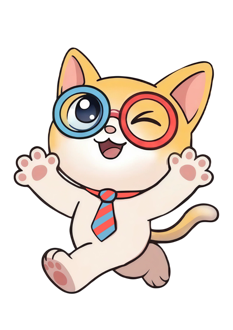
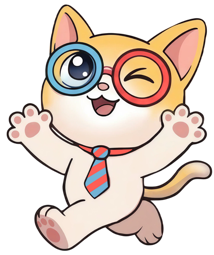
chore: use trimmed happy and searching mascots

diff --git a/src/views/resident/MeetingDetailView.vue b/src/views/resident/MeetingDetailView.vue
@@ -240,7 +240,7 @@ function download() {
     <Empty v-else-if="!meeting" class="gap-1 pt-10">
       <EmptyMedia>
         <!-- alt 留空：圖片只是裝飾，螢幕閱讀器會跳過 -->
-        <img :src="mascotUrl" alt="" width="233" height="330" class="h-[120px] w-auto" />
+        <img :src="mascotUrl" alt="" width="233" height="229" class="h-[120px] w-auto" />
       </EmptyMedia>
       <EmptyTitle class="type-greeting">找不到這份會議紀錄</EmptyTitle>
       <EmptyDescription class="type-body">可能還沒公開，或是網址不正確。</EmptyDescription>
@@ -352,7 +352,7 @@ function download() {
           <!-- 搜尋中、沒找到 -->
           <Empty v-else-if="searchWord" class="gap-1 pt-6">
             <EmptyMedia>
-              <img :src="mascotUrl" alt="" width="233" height="330" class="h-[120px] w-auto" />
+              <img :src="mascotUrl" alt="" width="233" height="229" class="h-[120px] w-auto" />
             </EmptyMedia>
             <EmptyTitle class="type-greeting">找不到「{{ searchWord }}」相關內容</EmptyTitle>
             <EmptyDescription class="type-body">請換個關鍵字，例如：電梯、防水</EmptyDescription>

diff --git a/src/views/resident/new-report/SubmittedDone.vue b/src/views/resident/new-report/SubmittedDone.vue
@@ -9,7 +9,7 @@ import mascotUrl from '@/assets/mascot/happy.png' // 開心奔跑的好彼管家
     <div class="space-y-3">
       <!-- alt 留空：圖片只是裝飾，螢幕閱讀器會跳過 -->
       <!-- width / height 寫圖檔尺寸，讓瀏覽器先算好比例；實際顯示高度由 h-[131px] 決定 -->
-      <img :src="mascotUrl" alt="" width="233" height="330" class="mx-auto h-[131px] w-auto" />
+      <img :src="mascotUrl" alt="" width="214" height="255" class="mx-auto h-[131px] w-auto" />
       <h2 class="type-title text-foreground">已收到你的通報！</h2>
     </div>
     <p class="type-body text-muted-foreground">感謝你為社區公共環境盡一份心力</p>

diff --git a/src/views/resident/MyCommentsView.vue b/src/views/resident/MyCommentsView.vue
@@ -67,7 +67,7 @@ const pendingCount = computed(() => tabs.value[1].comments.length)
       <Empty v-else-if="tab.comments.length === 0" class="gap-3 pt-10">
         <EmptyMedia>
           <!-- alt 留空：圖片只是裝飾，螢幕閱讀器會跳過 -->
-          <img :src="mascotUrl" alt="" width="233" height="330" class="h-[94px] w-auto" />
+          <img :src="mascotUrl" alt="" width="233" height="229" class="h-[94px] w-auto" />
         </EmptyMedia>
         <!-- 結尾的 ! 是「一定要用這個」：ui/empty 本身有 text-sm 的預設字級，不加會被蓋掉變成 14px -->
         <EmptyTitle class="type-card-title! text-heading">{{ tab.emptyTitle }}</EmptyTitle>

diff --git a/src/views/resident/AnnouncementsView.vue b/src/views/resident/AnnouncementsView.vue
@@ -116,7 +116,7 @@ watch(currentTab, markCurrentTabRead)
         <EmptyMedia>
           <!-- alt 留空：圖片只是裝飾，螢幕閱讀器會跳過 -->
           <!-- width / height 寫圖檔尺寸，讓瀏覽器先算好比例；實際顯示高度由 h-[84px] 決定 -->
-          <img :src="mascotUrl" alt="" width="233" height="330" class="h-[84px] w-auto" />
+          <img :src="mascotUrl" alt="" width="233" height="229" class="h-[84px] w-auto" />
         </EmptyMedia>
         <EmptyTitle class="type-card-title text-heading">{{ tab.emptyTitle }}</EmptyTitle>
         <EmptyDescription class="type-body">有新公告時好彼管家會通知你。</EmptyDescription>

diff --git a/src/views/resident/ReportsView.vue b/src/views/resident/ReportsView.vue
@@ -71,7 +71,7 @@ const tabs = computed(() => [
         <EmptyMedia>
           <!-- alt 留空：圖片只是裝飾，螢幕閱讀器會跳過 -->
           <!-- width / height 寫圖檔尺寸，讓瀏覽器先算好比例；實際顯示高度由 h-[120px] 決定 -->
-          <img :src="mascotUrl" alt="" width="233" height="330" class="h-[120px] w-auto" />
+          <img :src="mascotUrl" alt="" width="233" height="229" class="h-[120px] w-auto" />
         </EmptyMedia>
         <EmptyTitle class="type-greeting">{{ tab.emptyText }}</EmptyTitle>
         <EmptyDescription class="type-body">發現社區有問題，隨時可以通報喔！</EmptyDescription>

diff --git a/src/views/committee/NewTaskView.vue b/src/views/committee/NewTaskView.vue
@@ -153,7 +153,7 @@ function cancel() {
     <Empty v-else-if="!canAssign || caseProblem" class="gap-1 pt-10">
       <EmptyMedia>
         <!-- alt 留空：圖片只是裝飾，螢幕閱讀器會跳過 -->
-        <img :src="mascotUrl" alt="" width="233" height="330" class="h-[120px] w-auto" />
+        <img :src="mascotUrl" alt="" width="233" height="229" class="h-[120px] w-auto" />
       </EmptyMedia>
       <EmptyTitle class="type-greeting">{{ canAssign ? '沒辦法交辦' : '只有主委、副主委可以交辦' }}</EmptyTitle>
       <EmptyDescription v-if="caseProblem" class="type-body">{{ caseProblem }}</EmptyDescription>

diff --git a/src/views/committee/NewRepairView.vue b/src/views/committee/NewRepairView.vue
@@ -291,7 +291,7 @@ async function submit() {
       <div v-else-if="step === 'submitted'" class="space-y-4 pt-8 text-center">
         <div class="space-y-3">
           <!-- alt 留空：圖片只是裝飾，螢幕閱讀器會跳過 -->
-          <img :src="mascotUrl" alt="" width="233" height="330" class="mx-auto h-[131px] w-auto" />
+          <img :src="mascotUrl" alt="" width="214" height="255" class="mx-auto h-[131px] w-auto" />
           <h2 class="type-title text-foreground">已收到你的通報！</h2>
         </div>
         <p class="type-body text-muted-foreground">感謝你為社區公共環境盡一份心力</p>

diff --git a/src/views/committee/CasesView.vue b/src/views/committee/CasesView.vue
@@ -87,7 +87,7 @@ const shownCases = computed(() =>
     <Empty v-else-if="!shownCases.length" class="gap-1 pt-10">
       <EmptyMedia>
         <!-- alt 留空：圖片只是裝飾，螢幕閱讀器會跳過 -->
-        <img :src="mascotUrl" alt="" width="233" height="330" class="h-[120px] w-auto" />
+        <img :src="mascotUrl" alt="" width="233" height="229" class="h-[120px] w-auto" />
       </EmptyMedia>
       <EmptyTitle class="type-greeting">這個條件下沒有案件</EmptyTitle>
       <EmptyDescription class="type-body">換個條件看看，或直接新增一個案件</EmptyDescription>

diff --git a/src/views/committee/VendorListView.vue b/src/views/committee/VendorListView.vue
@@ -81,7 +81,7 @@ const shownVendors = computed(() => {
     <Empty v-else-if="!shownVendors.length" class="gap-1 pt-6">
       <EmptyMedia>
         <!-- alt 留空：圖片只是裝飾，螢幕閱讀器會跳過 -->
-        <img :src="mascotUrl" alt="" width="233" height="330" class="h-[120px] w-auto" />
+        <img :src="mascotUrl" alt="" width="233" height="229" class="h-[120px] w-auto" />
       </EmptyMedia>
       <EmptyTitle class="type-greeting">沒有符合的廠商</EmptyTitle>
       <EmptyDescription class="type-body">換個關鍵字，或看看其他合作狀態</EmptyDescription>

diff --git a/src/views/committee/AnnouncementDetailView.vue b/src/views/committee/AnnouncementDetailView.vue
@@ -202,7 +202,7 @@ const publishRows = computed(() => {
     <Empty v-else-if="!announcement" class="gap-1 pt-10">
       <EmptyMedia>
         <!-- alt 留空：圖片只是裝飾，螢幕閱讀器會跳過 -->
-        <img :src="mascotUrl" alt="" width="233" height="330" class="h-[120px] w-auto" />
+        <img :src="mascotUrl" alt="" width="233" height="229" class="h-[120px] w-auto" />
       </EmptyMedia>
       <EmptyTitle class="type-greeting">找不到這則公告</EmptyTitle>
       <EmptyDescription class="type-body">可能已經刪除，或是網址不正確。</EmptyDescription>

diff --git a/src/views/committee/ContractsView.vue b/src/views/committee/ContractsView.vue
@@ -76,7 +76,7 @@ const shownContracts = computed(() => {
     <Empty v-else-if="!shownContracts.length" class="gap-1 pt-6">
       <EmptyMedia>
         <!-- alt 留空：圖片只是裝飾，螢幕閱讀器會跳過 -->
-        <img :src="mascotUrl" alt="" width="233" height="330" class="h-[120px] w-auto" />
+        <img :src="mascotUrl" alt="" width="233" height="229" class="h-[120px] w-auto" />
       </EmptyMedia>
       <EmptyTitle class="type-greeting">沒有符合的合約</EmptyTitle>
       <EmptyDescription class="type-body">換個關鍵字或狀態試試看。</EmptyDescription>

diff --git a/src/views/committee/EquipmentListView.vue b/src/views/committee/EquipmentListView.vue
@@ -93,7 +93,7 @@ const shownDevices = computed(() => {
     <Empty v-else-if="!shownDevices.length" class="gap-1 pt-6">
       <EmptyMedia>
         <!-- alt 留空：圖片只是裝飾，螢幕閱讀器會跳過 -->
-        <img :src="mascotUrl" alt="" width="233" height="330" class="h-[120px] w-auto" />
+        <img :src="mascotUrl" alt="" width="233" height="229" class="h-[120px] w-auto" />
       </EmptyMedia>
       <EmptyTitle class="type-greeting">沒有符合的設備</EmptyTitle>
       <EmptyDescription class="type-body">換個關鍵字或狀態試試看。</EmptyDescription>
